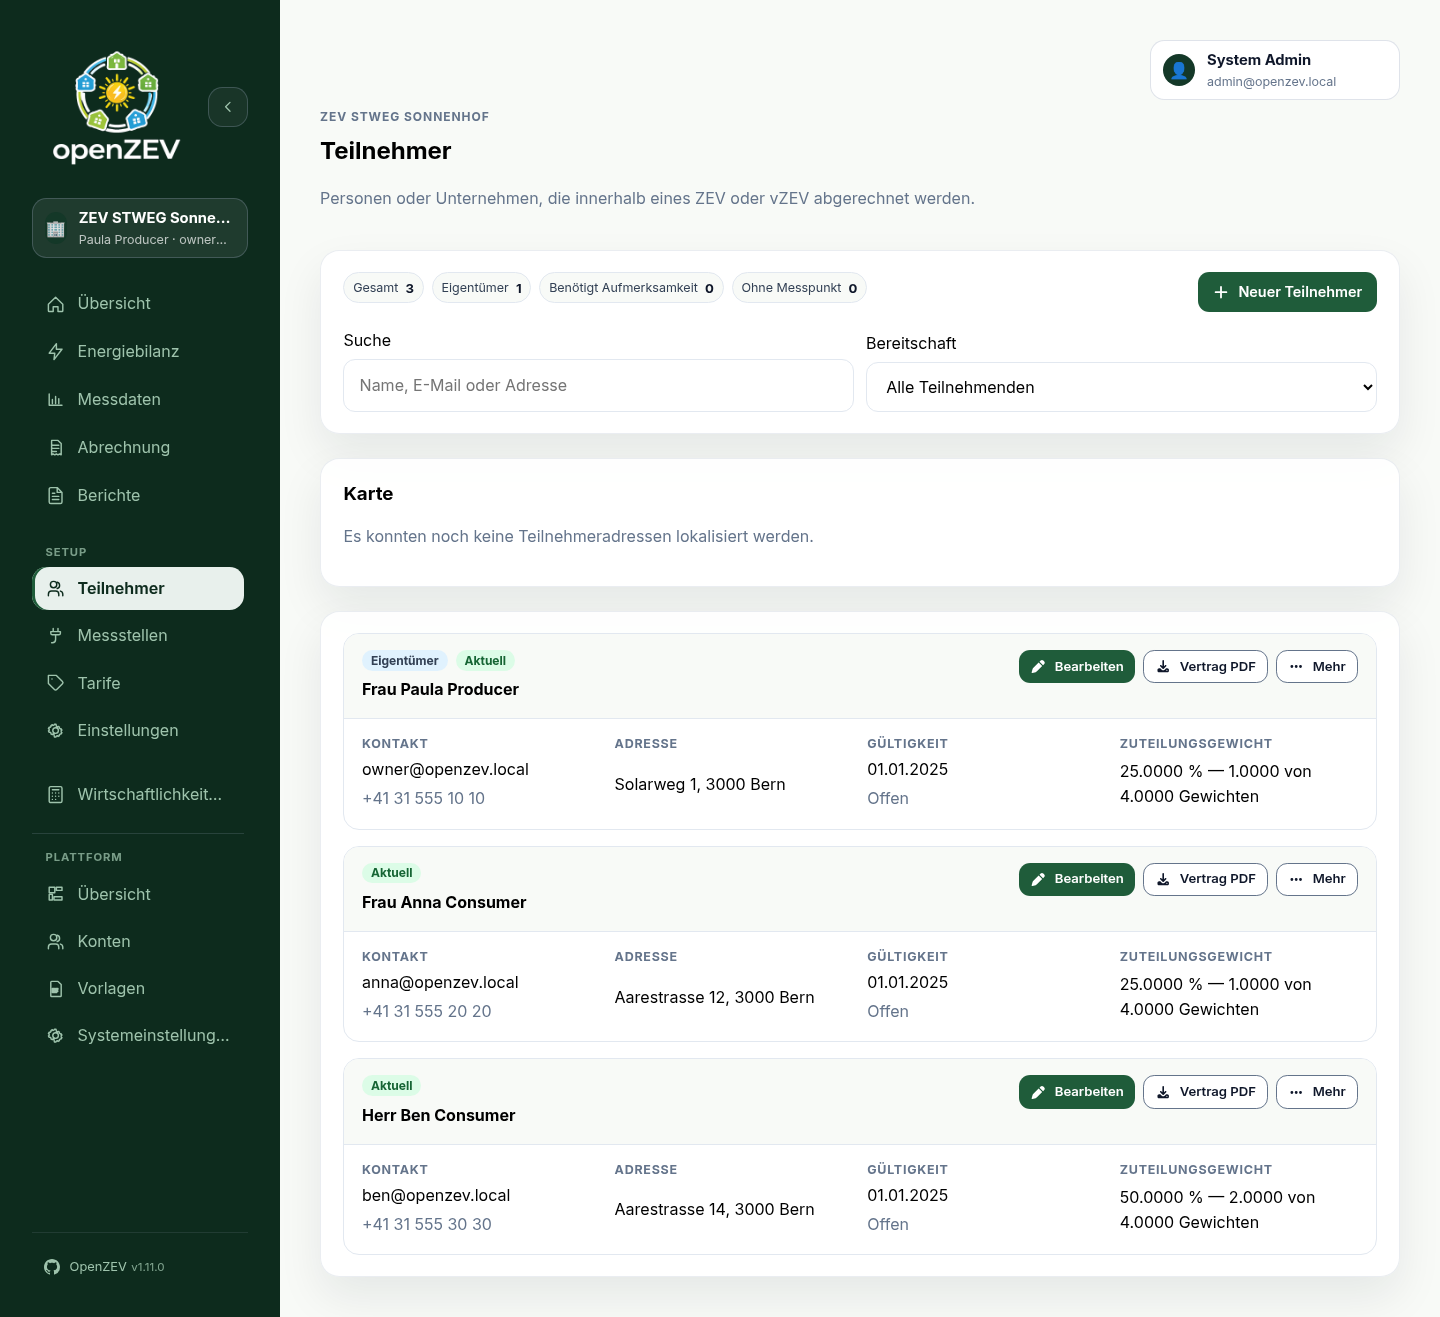
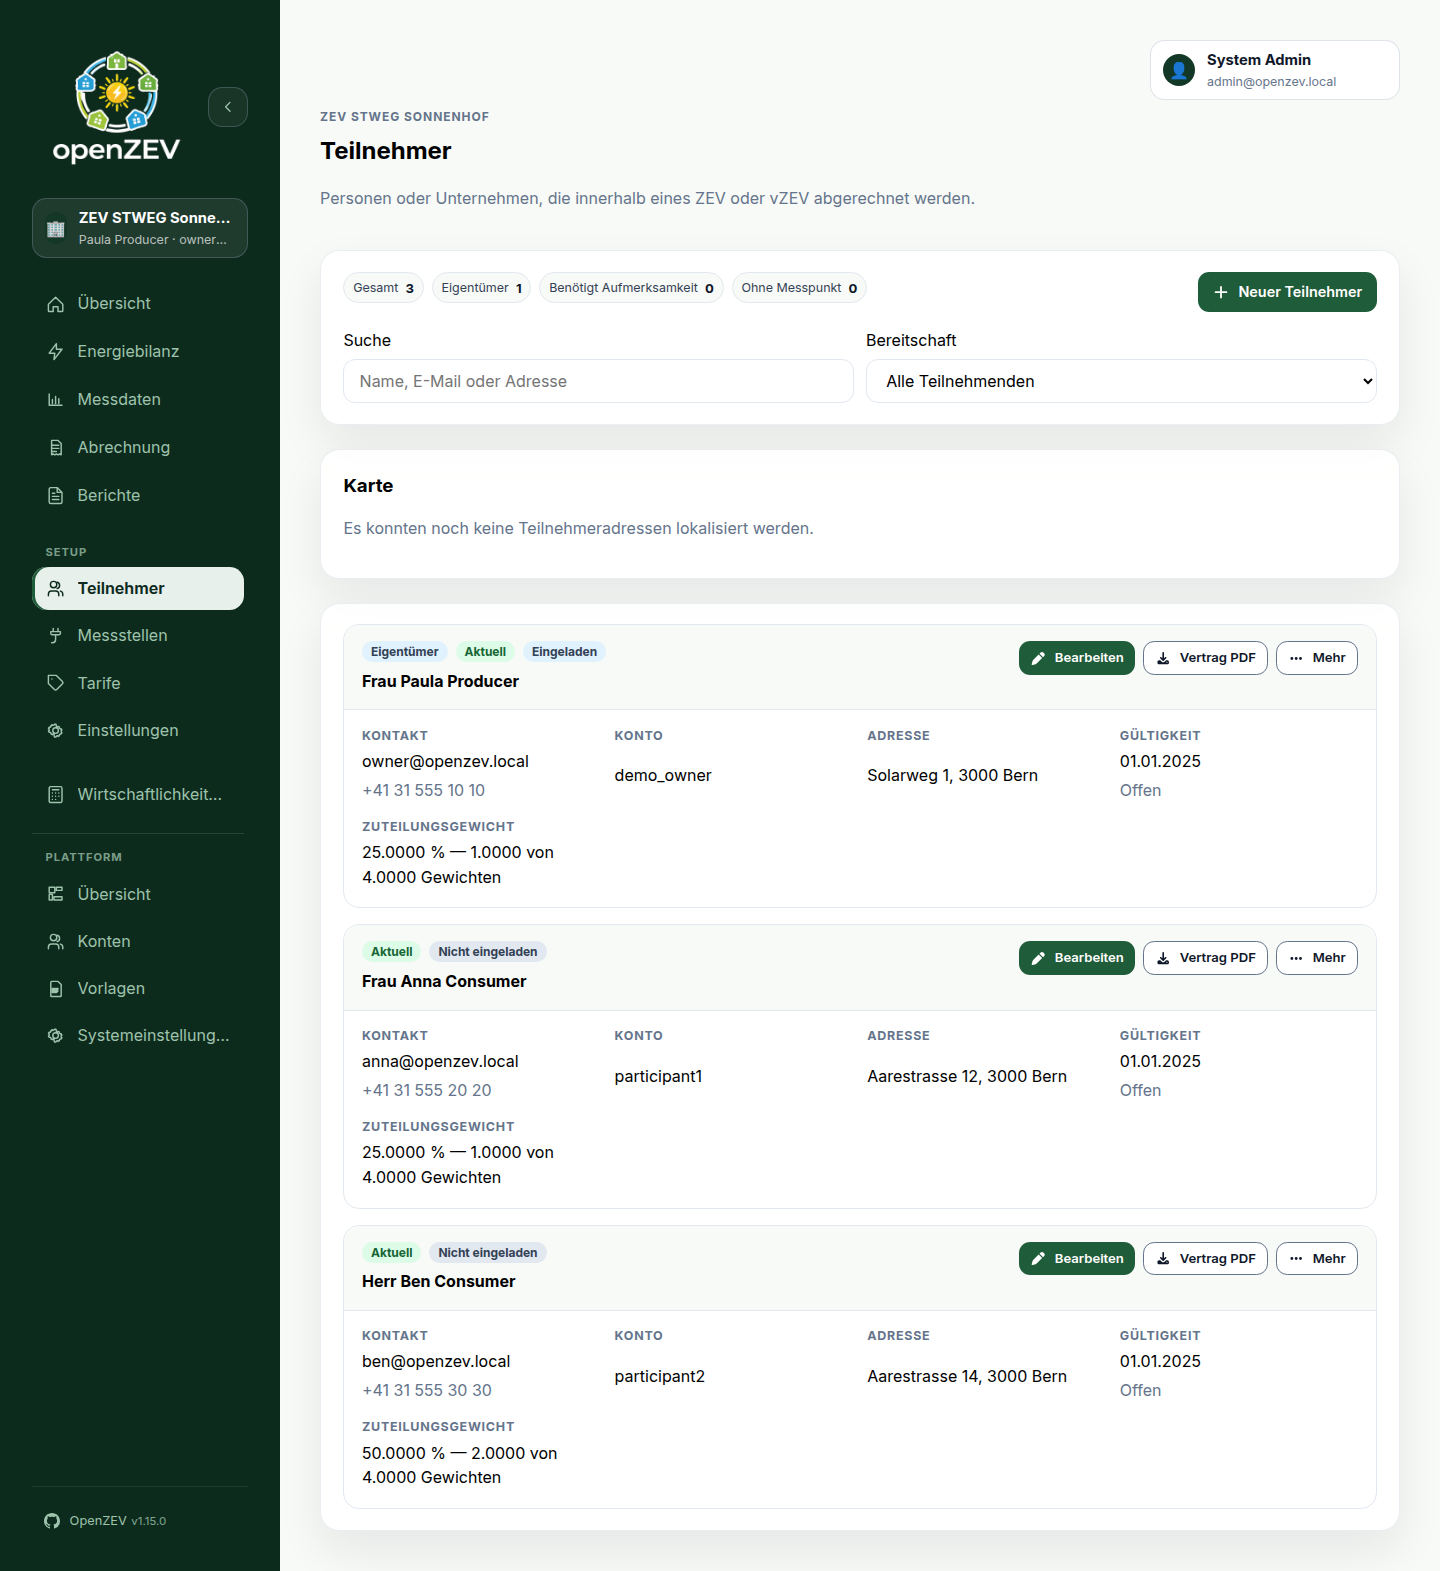
docs(accounts): document the per-account list and Participants-side linking
Baseline spec (list serializer, page model, linking), 2FA spec cross-reference,
user guide chapters 03 and 11 (which described create/deactivate flows that do
not exist), and recaptured the two affected screenshots.

diff --git a/docs/specs/2026-03-community-and-access.md b/docs/specs/2026-03-community-and-access.md
@@ -522,6 +522,32 @@ Owners have no consumer for it: account linking is admin-only.
 
 **Queryset:** all users, ordered by username. Any non-admin role → 403.
 
+**Serializer:** `AdminUserSerializer` (list only) — `UserSerializer` plus two
+read-only fields, so the page can say where an account belongs without a second
+request per row:
+
+- `memberships` — one entry per community the account is tied to, sorted by
+  community name (case-insensitive): `{ zev, zev_name, is_owner, participant }`.
+  `Zev.owner` and `Participant.user` are separate relations, so they are merged
+  per ZEV: an owner who is also their own community's owner-participant is
+  *one* entry (`is_owner: true`, `participant: <id>`), not an "owner" and a
+  "participant" entry. `participant` is `null` for an owner with no participant
+  record. An account holds at most one participant record per link rule, but
+  owners of several communities routinely have several entries.
+- `mfa_methods` — `"totp"` (a *confirmed* authenticator device; an abandoned
+  enrolment does not count) and/or `"passkey"`, in that order.
+
+Both are derived from prefetched relations (`select_related("totp_device")`,
+`prefetch_related` on `owned_zevs`, `participations__zev`,
+`webauthn_credentials`), so the list costs a fixed number of queries whatever the
+number of accounts (pinned by a query-count test). `/auth/me/`, impersonation
+responses and the detail view keep the plain `UserSerializer` and do not carry
+these fields.
+
+`last_login` is deliberately **not** exposed: the JWT login paths (password,
+MFA, passkey, magic link, onboarding, OAuth) do not maintain it, so it would
+report "never" for accounts that sign in every day.
+
 ### 6.2 User create
 
 **Endpoint:** `POST /api/v1/auth/users/` (IsAdmin)
@@ -547,6 +573,57 @@ Admin only. Passwords must match. Created via `User.objects.create_user()`.
   Success audit is recorded before `instance.delete()` so the actor FK is
   valid; `on_delete=SET_NULL` nullifies `actor_user` on self-deletion while
   preserving `actor_display` and `target_id`.
+
+### 6.4 Admin accounts page (frontend)
+
+**File:** `frontend/src/pages/AdminAccountsPage.tsx` (Users tab of
+`AdminAccountsHubPage`). Helpers in `frontend/src/features/accounts/`.
+
+**Model of the page:** one row per *account* — not per participant. An account
+that belongs to several communities is still one row, with one chip per
+community. This replaced a participant-first table in which the same account
+repeated per participant row and the role editor on each row silently changed
+the account's role everywhere.
+
+- **Columns:** *Account* (display name, platform-role badge, `Inactive` badge
+  when `is_active` is false, `username · email`), *Communities*
+  (`AccountMemberships`), *Security* (a badge per `mfa_methods` entry, or
+  "No two-factor"), *Actions*.
+- **Membership chips** read `Owner|Participant · <community>`. Selecting one
+  calls `setSelectedZevId(zev)` (the shell's community switcher — which also
+  saves the admin's `preferred_zev`, as any switch does) and opens
+  `/participants?focus=<participant>` (`/participants` when the account is an
+  owner with no participant record). Memberships are edited there, not here.
+- **Stats:** accounts, accounts with two-factor, guest accounts (the ones
+  waiting to be linked).
+- **Filters** (`accountList.filterAccounts`, client-side): search over display
+  name, username and email; platform role; community. The community filter
+  matches *any* membership, owner or participant.
+- **Actions:** *Edit* (username, email, names, **platform role** — labelled as
+  such, with a hint that it applies in every community); menu: *Impersonate*
+  (participant and owner accounts only — `canImpersonateAccount`), *Reset
+  two-factor*, *Delete*. *Delete* is disabled while the account belongs to any
+  community (`canDeleteAccount`, mirroring the server's guard) and is not
+  offered for the admin's own row.
+- **Removed from this page:** *Link existing*, *Create account*, *Unlink* and the
+  participants-without-account rows — see §6.5.
+
+### 6.5 Account linking on the Participants page (frontend)
+
+Linking is a fact about one community's participant, so it lives with the
+participants (`ParticipantCardsSection`, `useParticipantAccountLinking`,
+`LinkAccountModal` in `frontend/src/features/participants/`).
+
+- Each participant card has an **Account** section: the linked username, or "No
+  account yet".
+- **Admin only** (the endpoints are admin-only; the accounts query only runs for
+  admins): *Link existing* in the card menu when the participant has no account
+  and at least one linkable account exists (`accountList.linkableAccounts` —
+  participant/guest role and holding no participant record, matching the
+  server's rule); *Unlink* when it has one, except on the owner's own
+  participant, which the server refuses to detach.
+- Owners keep the existing *Send/Copy/Revoke onboarding link* actions, which
+  create the account. Nothing about the endpoints or permissions changed.
 
 ---
 
@@ -997,6 +1074,12 @@ frontend types it as required-nullable).
 the default; participants and guests cannot set one at all; admins may set
 any ZEV. `null` clears the preference.
 
+### 13.1a AdminUserSerializer
+
+Subclass of `UserSerializer` used by `GET /auth/users/` only. Adds the
+read-only `memberships` and `mfa_methods` fields described in §6.1. Not used on
+create (`UserCreateSerializer`) or detail/update (`UserSerializer`).
+
 ### 13.2 UserCreateSerializer
 
 **Fields:** `username`, `email`, `first_name`, `last_name`, `password`,
@@ -1130,6 +1213,7 @@ lists the test classes per module (test counts are the `test_*` methods).
 
 | Module | Classes | Tests | Coverage |
 |---|---|---|---|
+| `test_admin_users_list.py` | 1 | 7 | Admin user list: memberships per relationship (participant, owner-who-is-also-participant merged into one, owner of several communities sorted by name), confirmed-only `mfa_methods`, fixed query count, `/auth/me/` unaffected |
 | `test_api_keys.py` | 10 | 81 | Generation, hashing, auth, read-only keys, scope deny-list, audit, throttling, CRUD, admin management |
 | `test_oauth.py` | 12 | 55 | Provider listing, initiate, callback guards/redirects, link flow, social accounts, audit, `require_mfa_claim` (`OAuthMfaClaimTests`) |
 | `test_passkeys.py` | 9 | 62 | Passkey registration and passwordless sign-in against a software authenticator, MFA policy and grace arithmetic, removal guard, admin reset, RP-ID system check |
@@ -1243,8 +1327,11 @@ lists the test classes per module (test counts are the `test_*` methods).
 7. `BaseZevScopedPermission` enforces object-level ZEV ownership checks.
 8. Participant creation auto-provisions a linked user account with temporary
    password.
-9. Account linking is admin-only; unlink demotes to `guest`; delete blocked for
-   linked accounts and for the last admin. `create_superuser` enforces
+9. Account linking is admin-only and is done from the community's
+   **Participants** page (link an existing participant/guest account, or
+   unlink — the account becomes `guest`); the admin accounts page only *lists*
+   memberships and links out to that page. Delete is blocked for accounts that
+   belong to a community and for the last admin. `create_superuser` enforces
    `role=ADMIN`, so the `role` column is the canonical admin count.
 10. ZEV creation wizard atomically creates ZEV + owner user + owner participant
     + metering points + assignments.
@@ -1253,6 +1340,6 @@ lists the test classes per module (test counts are the `test_*` methods).
 12. Frontend `ProtectedRoute` enforces role-based route access; navigation
     visibility matches role capabilities.
 13. `ManagedZevProvider` scopes all management pages to the selected ZEV.
-14. Shared frontend helpers keep pages deduplicated: `frontend/src/lib/clipboard.ts` (`copyToClipboard`) consolidates direct `navigator.clipboard.writeText` calls and is used by `AdminAccountsPage`, `ApiKeysSection` and `ZevListPage`; `frontend/src/lib/participantTitle.ts` (`getTitleLabelMap`) is the single source of title (Mr/Ms/…) label maps used by `AdminAccountsPage` and `ParticipantsPage`; `frontend/src/lib/options.ts` exports `BILLING_INTERVAL_OPTIONS`, `ZEV_TYPE_OPTIONS`, `METER_TYPE_OPTIONS` (validated by `frontend/tests/options.test.ts`). `ZevListPage` stores its copy-feedback timeout in a ref and clears it on unmount/close so repeated copies don't race.
+14. Shared frontend helpers keep pages deduplicated: `frontend/src/lib/clipboard.ts` (`copyToClipboard`) consolidates direct `navigator.clipboard.writeText` calls and is used by `ApiKeysSection` and `ZevListPage`; `frontend/src/lib/participantTitle.ts` (`getTitleLabelMap`) is the single source of title (Mr/Ms/…) label maps used by `ParticipantsPage`; `frontend/src/lib/options.ts` exports `BILLING_INTERVAL_OPTIONS`, `ZEV_TYPE_OPTIONS`, `METER_TYPE_OPTIONS` (validated by `frontend/tests/options.test.ts`). `ZevListPage` stores its copy-feedback timeout in a ref and clears it on unmount/close so repeated copies don't race.
 15. Full RBAC matrix (list, create, update, delete, unauthenticated) is covered
     by automated tests.

diff --git a/docs/user-guide/11-roles-and-permissions.md b/docs/user-guide/11-roles-and-permissions.md
@@ -172,38 +172,62 @@ has no access to a ZEV's data until an admin links it to a participant.
 
 **Only Admins** can assign roles to other users.
 
-### Create a New User
+### The Accounts list
 
 ![Admin accounts page](screenshots/11-admin-accounts.png)
 
-1. Go to **Platform → Accounts**
-2. Click **Create New Account**
-3. Enter:
-   - **Email** (login credential)
-   - **First/Last Name**
-   - **Role:** Admin, ZEV Owner, or Participant
-   - **Assign to ZEVs** (if ZEV Owner or Participant)
-4. Click **Create**
+**Platform → Accounts → Users** lists every account on the platform, one row
+each:
 
-User receives invitation email with password setup link.
+- **Account** — name, username, email and the account's **platform role**.
+- **Communities** — one chip per community the account belongs to, marked
+  *Owner* or *Participant*. An account that belongs to several communities
+  still has a single row. Click a chip to open that community's Participants
+  page.
+- **Security** — which second factors the account has (authenticator app,
+  passkey), or *No two-factor*.
 
-### Update User Role
+Use **Search**, **Platform role** and **Community** to narrow the list — the
+community filter finds everyone who is an owner or participant there.
 
-1. Go to **Platform → Accounts**
-2. Click on user name
-3. Click **Edit**
-4. Change **Role** or **ZEV Assignments**
-5. Click **Save**
+> **Platform role vs. community membership.** The platform role (Admin, ZEV
+> Owner, Participant, Guest) belongs to the *account* and applies in every
+> community. Which communities an account belongs to is set on each community's
+> **Participants** page, not here.
 
-Changes take effect immediately.
+### Change an Account's Role
 
-### Remove User
+1. Go to **Platform → Accounts → Users**
+2. Click **Edit** on the account
+3. Change the **Platform role** (and name or email if needed)
+4. Click **Save account**
 
-1. Go to **Platform → Accounts**
-2. Click on user
-3. Click **Deactivate**
+Changes take effect immediately. You cannot change your own role.
 
-User cannot login; their account is preserved in history.
+### Give a Participant an Account
+
+Accounts are attached to participants from the community that the participant
+belongs to:
+
+1. Switch to the community and open **Participants**
+2. On the participant's card, open **More**
+3. Choose **Send onboarding link** or **Copy onboarding link** (creates the
+   account and gives the participant a sign-in link), or — as an admin —
+   **Link existing** to attach a guest or participant account that is not yet
+   linked
+4. To detach an account again, choose **Unlink** (it becomes a Guest account)
+
+### Other Account Actions
+
+Open **More** on an account row for:
+
+- **Impersonate** — view the platform as a participant or owner (never an
+  admin).
+- **Reset two-factor** — removes the account's passkeys, authenticator app and
+  recovery codes, so someone locked out can sign in with their password again.
+- **Delete** — only available for accounts that do not belong to a community.
+  Unlink the account from its participant first; an owner's account cannot be
+  deleted while it owns a community.
 
 ## Data Privacy and Scoping
 

diff --git a/docs/user-guide/03-participant-management.md b/docs/user-guide/03-participant-management.md
@@ -50,6 +50,13 @@ Participants **cannot**:
 - Manage ZEV settings
 - Create tariffs or invoices
 
+Each participant card shows the **Account** it is linked to, or *No account
+yet*. Open **More** on a card to send or copy the participant's onboarding link
+(which creates the account). Administrators can also **Link existing** — attach
+a guest or participant account that is not yet linked to anyone — or **Unlink**
+the current one. Platform → Accounts lists every account and which communities
+it belongs to; see [Roles and Permissions](11-roles-and-permissions.md).
+
 ## Editing Participant Details
 
 1. Go to **Participants**

diff --git a/docs/specs/2026-09-two-factor-authentication.md b/docs/specs/2026-09-two-factor-authentication.md
@@ -525,8 +525,9 @@ key as unconfigured — mirroring the pattern PR #732 used for the dynamic-sourc
 
 **File:** `frontend/src/pages/AdminAccountsPage.tsx`
 
-Each user row gains a **Reset two-factor** action (admin only), behind a confirmation dialog
-naming the user and what will be removed.
+Each account row gains a **Reset two-factor** action (admin only), behind a confirmation dialog
+naming the user and what will be removed. The row also shows which factors the account has (from
+`AdminUserSerializer.mfa_methods`) — see `2026-03-community-and-access.md` §6.4.
 
 ### TypeScript types
 
